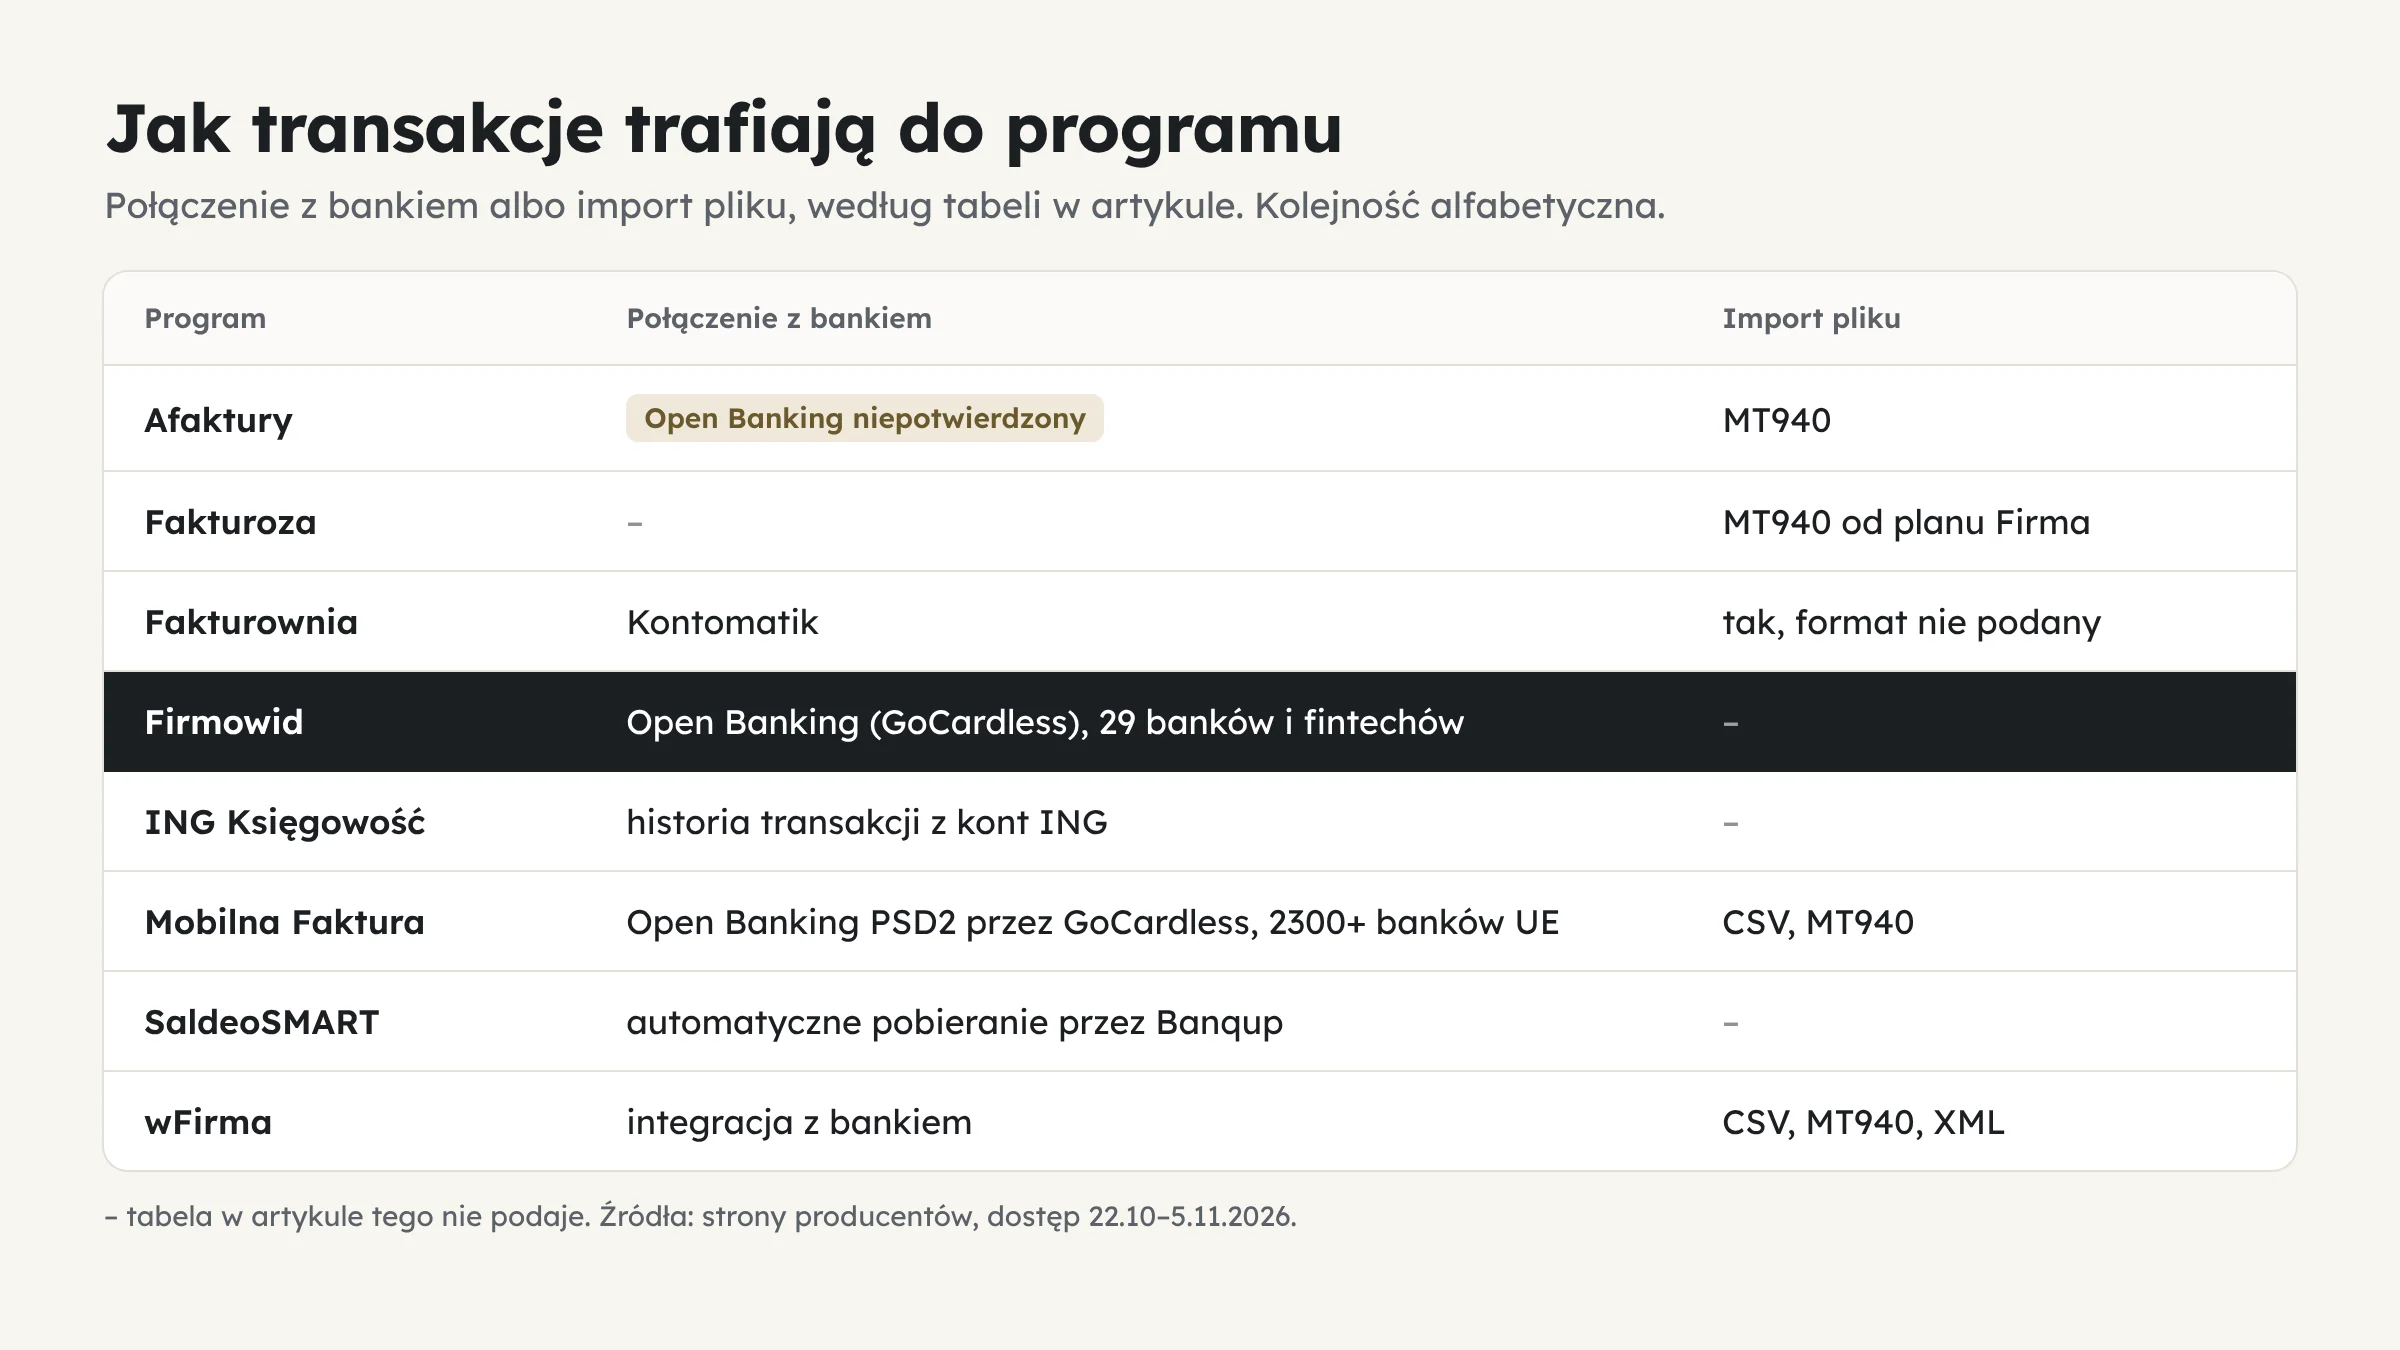
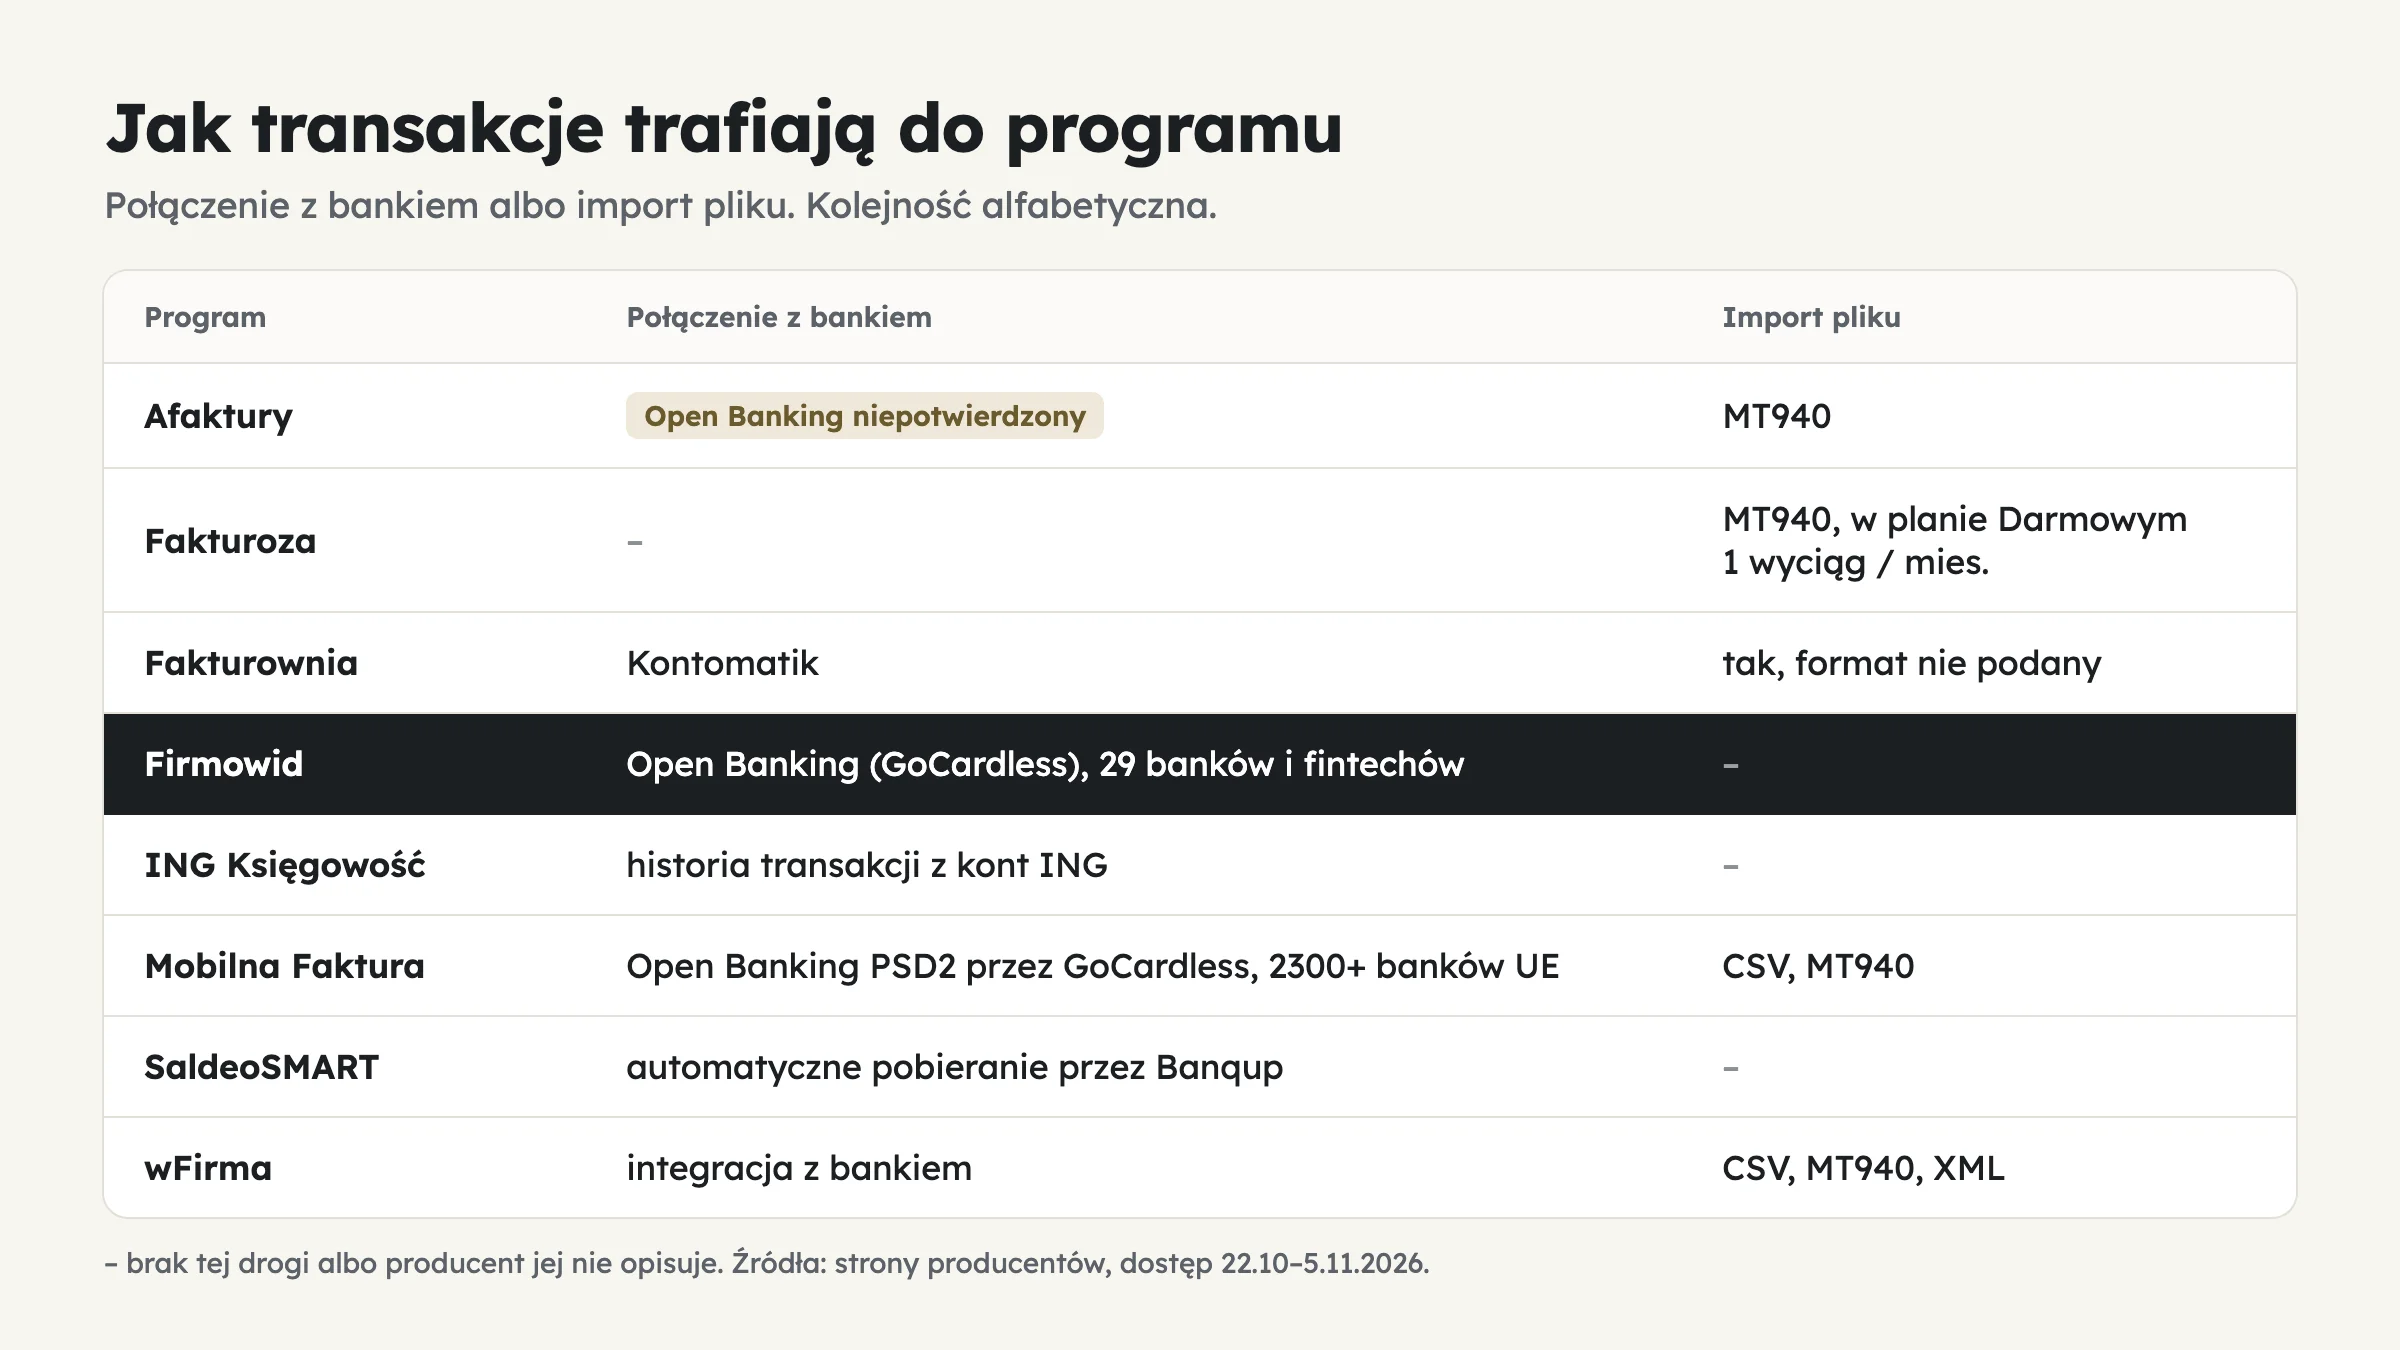
fix(landing): drop working notes from the payment matching guide
Removes leftover research notes from the comparison table and the
image caption, and fixes the Fakturoza row in the graphic: the free
plan already includes one MT940 statement a month, as the table says.

diff --git a/priv/guides/dopasowanie-przelewow-do-faktur.md b/priv/guides/dopasowanie-przelewow-do-faktur.md
@@ -17,15 +17,15 @@ Można to zrobić wyciągiem MT940, CSV lub XML, wgrywanym ręcznie po pobraniu 
 
 ## Porównanie programów
 
-![Osiem programów do faktur w kolejności alfabetycznej, z podziałem na połączenie z bankiem i import pliku. Open Banking przez GoCardless mają Firmowid (29 banków i fintechów) i Mobilna Faktura (2300+ banków UE). Afaktury i Fakturoza importują MT940, a wFirma CSV, MT940 i XML.](/images/guides/jak-transakcje-trafiaja-do-programu-do-faktur.webp)
-*Według tabeli w artykule. Źródła: strony producentów, dostęp 22.10–5.11.2026.*
+![Osiem programów do faktur w kolejności alfabetycznej, z podziałem na połączenie z bankiem i import pliku. Open Banking przez GoCardless mają Firmowid (29 banków i fintechów) i Mobilna Faktura (2300+ banków UE). Afaktury i Fakturoza importują MT940 (Fakturoza w planie Darmowym 1 wyciąg miesięcznie), a wFirma CSV, MT940 i XML.](/images/guides/jak-transakcje-trafiaja-do-programu-do-faktur.webp)
+*Źródła: strony producentów, dostęp 22.10–5.11.2026.*
 
 | Program | Jak wchodzą transakcje | Jak łączy z fakturą | Tani albo darmowy próg | Główne ograniczenie |
 |---|---|---|---|---|
 | Firmowid | Open Banking (GoCardless); strona podaje 29 banków i fintechów | automatyczne parowanie przelewów | Darmowy: 1 konto bankowe, faktury i KSeF bez limitu | brak księgowości i magazynu |
 | wFirma | integracja z bankiem oraz import CSV, MT940 i XML | automatyczne parowanie i sugestie, ręcznie albo nocą | stały plan 0 zł niepotwierdzony; test 30 dni | odbiór KSeF dopiero w pakiecie księgowym; cena dynamiczna |
-| Fakturownia | Kontomatik albo import pliku | automatyczne łączenie płatności z fakturami | Micro: 3 faktury sprzedażowe / mies. | powyżej 3 faktur plan płatny; odbiór KSeF opisany niespójnie |
-| Mobilna Faktura | Open Banking PSD2 przez GoCardless, 2300+ banków UE; także CSV/MT940 | automatyczne dopasowanie transakcji do faktur | aktualny próg cenowy: brak danych w odczytanej tabeli | oficjalny cennik opisuje znacznie szerszy system niż samo fakturowanie |
+| Fakturownia | Kontomatik albo import pliku | automatyczne łączenie płatności z fakturami | Micro: 3 faktury sprzedażowe / mies. | powyżej 3 faktur plan płatny |
+| Mobilna Faktura | Open Banking PSD2 przez GoCardless, 2300+ banków UE; także CSV/MT940 | automatyczne dopasowanie transakcji do faktur | darmowy plan niepotwierdzony | oficjalny cennik opisuje znacznie szerszy system niż samo fakturowanie |
 | Afaktury | import MT940 | automatyczne przypisanie wpłat i aktualizacja statusów | Free: 3 dokumenty i 10 PDF / mies. | Open Banking niepotwierdzony |
 | ING Księgowość | historia transakcji z kont ING | podpowiada pasujące przelewy; łączenie bywa ręczne | fakturowanie 0 zł dla klientów ING | poza ING cena i limit niepodane |
 | SaldeoSMART | automatyczne pobieranie przez Banqup | łączenie transakcji z fakturami, także kilku faktur jedną wpłatą | cennik niepubliczny | narzędzie raczej dla większych firm i biur |
